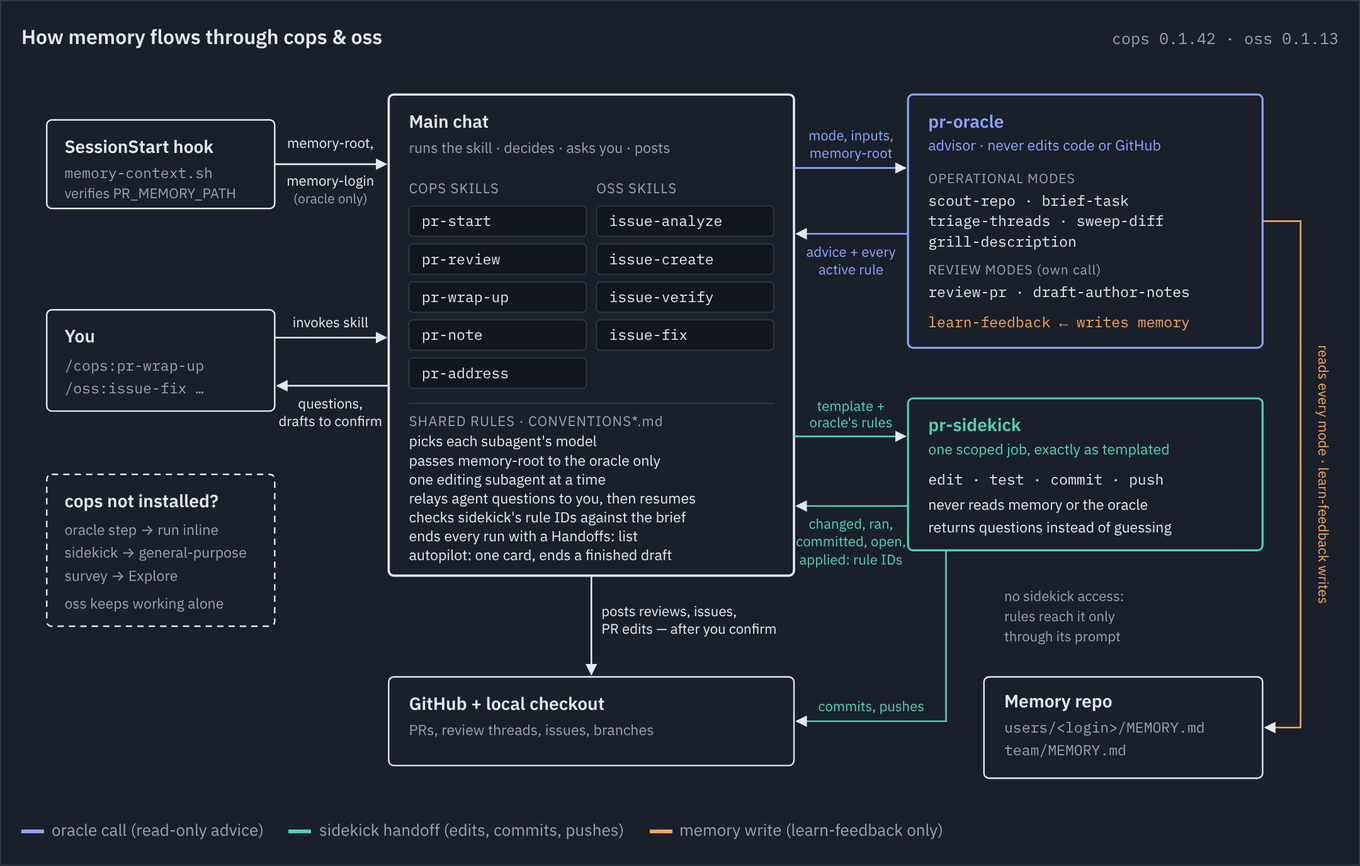
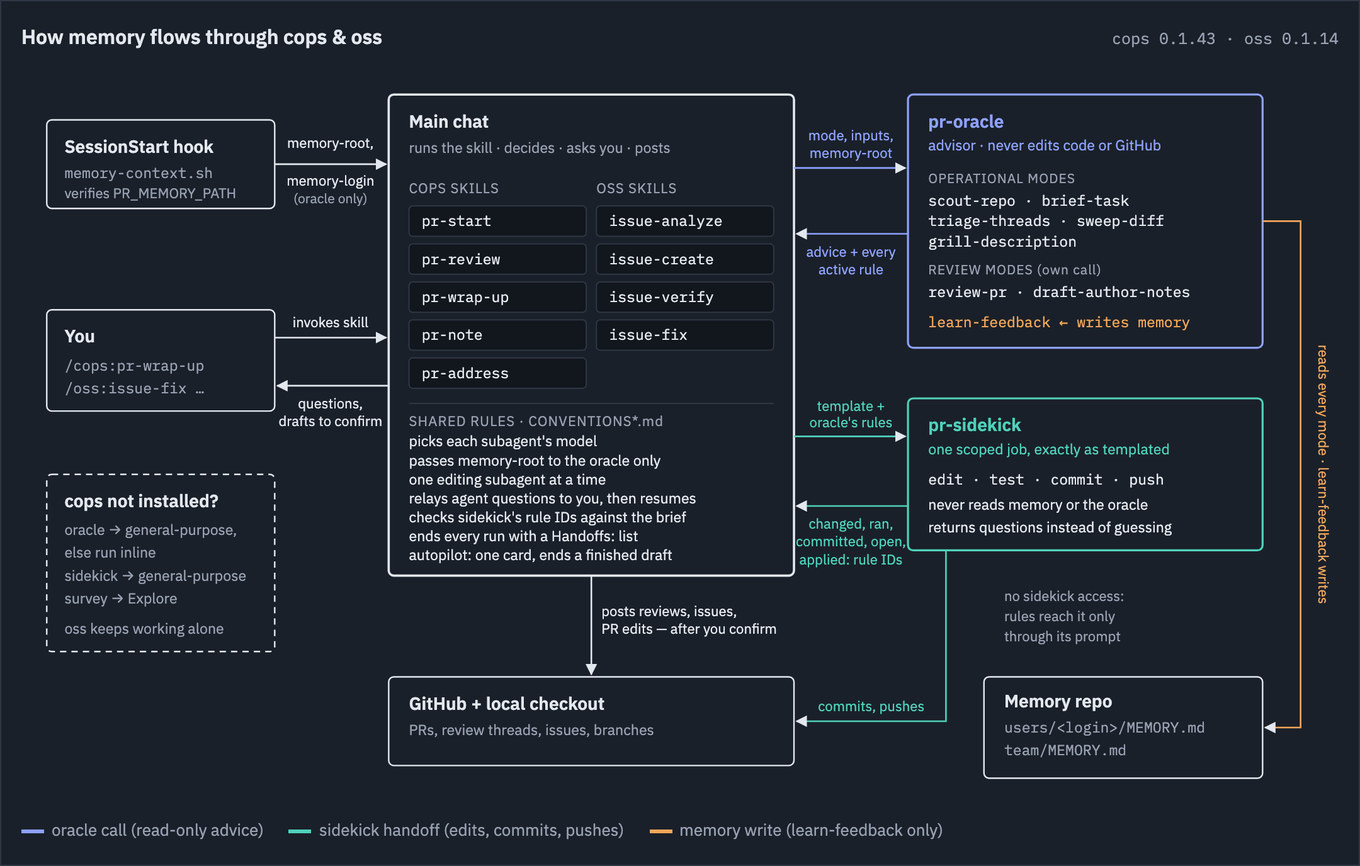
[cops] docs: add a subagent fallback convention for a missing pr-oracle or pr-sidekick (#138)
* [cops] docs: add CONVENTIONS-fallback for running a general-purpose subagent when pr-oracle or pr-sidekick is missing

Define when the fallback applies, the sidekick and oracle contract preambles,
memory handling, tiering, and how the fallback is reported. Index it in
CONVENTIONS.md, point to it from CONVENTIONS-orchestration.md, add a word
budget, and sync the plugin copies.

* [cops] docs: rename CONVENTIONS-fallback to CONVENTIONS-subagent-fallback

The new name says the file covers the missing-subagent fallback; references, budget line and synced copies follow.

Skill: cops:pr-start
Approved-by: eddeee888

* [cops] docs: carry pr-sidekick's decision limits into the fallback preamble

Raise the CONVENTIONS-subagent-fallback.md word cap in validate.sh from 700 to 724 for the added line.

Skill: cops:pr-address
Approved-by: eddeee888

* [cops] docs: mark a missing pr-oracle inline unless the step is a review mode

Reconcile the Companion and oracle sections of CONVENTIONS-orchestration.md with the general-purpose pointer. Raise the word caps in validate.sh: orchestration 1464 to 1481, subagent-fallback 724 to 736.

Skill: cops:pr-address
Approved-by: eddeee888

* [cops] docs: allow the general-purpose-in-place-of-pr-sidekick handoff mark

Raise the CONVENTIONS-orchestration.md word cap in validate.sh from 1481 to 1495.

Skill: cops:pr-address
Approved-by: eddeee888

* [cops][oss] chore: bump plugin versions and re-render the memory flow diagram
[…]

diff --git a/docs/memory-flow.html b/docs/memory-flow.html
@@ -41,7 +41,7 @@ svg .w { color: var(--write); } svg .w text { fill: var(--write); }
 <figure>
   <header>
     <strong>How memory flows through cops &amp; oss</strong>
-    <span id="versions">cops 0.1.42 · oss 0.1.13</span>
+    <span id="versions">cops 0.1.43 · oss 0.1.14</span>
   </header>
   <svg viewBox="0 0 1040 580" role="img" aria-label="The main chat runs a cops or oss skill. It calls pr-oracle for read-only advice and pr-sidekick for edit, test, commit and push loops. A SessionStart hook injects the memory root. Only the oracle receives the memory root and reads the memory repo, and only its learn-feedback mode writes it. The oracle's brief lists every active rule and the sidekick gets them only through its prompt; main chat checks the sidekick accounted for each rule ID.">
     <defs>
@@ -61,12 +61,13 @@ svg .w { color: var(--write); } svg .w text { fill: var(--write); }
     <text class="mono m" x="34" y="238">/cops:pr-wrap-up</text>
     <text class="mono m" x="34" y="256">/oss:issue-fix …</text>
 
-    <rect class="box dash" x="20" y="320" width="180" height="120" rx="4"/>
+    <rect class="box dash" x="20" y="320" width="180" height="140" rx="4"/>
     <text class="t" x="34" y="346">cops not installed?</text>
-    <text class="m" x="34" y="368" style="font-size:11.5px">oracle step → run inline</text>
-    <text class="m" x="34" y="386" style="font-size:11.5px">sidekick → general-purpose</text>
-    <text class="m" x="34" y="404" style="font-size:11.5px">survey → Explore</text>
-    <text class="m" x="34" y="426" style="font-size:11.5px">oss keeps working alone</text>
+    <text class="m" x="34" y="368" style="font-size:11.5px">oracle → general-purpose,</text>
+    <text class="m" x="34" y="386" style="font-size:11.5px">else run inline</text>
+    <text class="m" x="34" y="404" style="font-size:11.5px">sidekick → general-purpose</text>
+    <text class="m" x="34" y="422" style="font-size:11.5px">survey → Explore</text>
+    <text class="m" x="34" y="446" style="font-size:11.5px">oss keeps working alone</text>
 
     <!-- hook -> main -->
     <line class="edge" x1="200" y1="75" x2="288" y2="75" marker-end="url(#ah)"/>

diff --git a/CONVENTIONS-orchestration.md b/CONVENTIONS-orchestration.md
@@ -4,7 +4,7 @@
 
 When a skill names a handoff and the host can spawn a subagent, make it every time. This includes implement/test/commit, write/run-test, survey, research, and rebase/draft loops. Size or already-read code is no exemption. If handoff seems overhead, ask; never silently skip.
 
-- **Which agent.** Editing, running, or pushing → `pr-sidekick` (`cops:pr-sidekick`; Cursor: `pr-sidekick`), passing `login: <github-login>` when known. Complete PR review or author-note drafting → `pr-oracle` under "Consulting the `pr-oracle` agent". If `cops` is absent → `general-purpose` (Cursor: a subagent). Other read-only survey/research → `Explore` (Cursor: a subagent).
+- **Which agent.** Editing, running, or pushing → `pr-sidekick` (`cops:pr-sidekick`; Cursor: `pr-sidekick`), passing `login: <github-login>` when known. Complete PR review or author-note drafting → `pr-oracle` under "Consulting the `pr-oracle` agent". If unavailable → `general-purpose` (Cursor: a subagent), per `CONVENTIONS-subagent-fallback.md`. Other read-only survey/research → `Explore` (Cursor: a subagent).
 - **The caller picks the model by tier.** Every subagent call has one: `light` for mechanical work (also say "mechanical"), `standard` for a scoped change/survey, `deep` for cross-file judgment; oracle modes are tiered below. Pass the tier's value from the `COPS models:` line as the model. Omit it only for `inherit`, no such line, or a host without per-call models (Cursor). Mostly-design work stays in main chat.
 - **The prompt is only the filled template**: no transcript, diff, skill copy, or unrequested material.
 - **An editing subagent can't consult the oracle or read memory.** Main chat calls `pr-oracle` first and includes output, with `for: pr-sidekick` on `brief-task`.
@@ -30,6 +30,7 @@ Handoffs:
 
 - `✓`: ran as specified.
 - `✓ (incomplete load: <files>)`: oracle ran but its `loaded:` still lacked required files after one retry.
+- `✓ (general-purpose in place of pr-sidekick)`: `general-purpose` ran the sidekick handoff per `CONVENTIONS-subagent-fallback.md`.
 - `fallback (pr-oracle unavailable; general read-only subagent)`: valid only for labels `review-pr` and `draft-author-notes`, after applying the oracle mode contract to that subagent.
 - `inline (no subagent capability)`: valid for a named subagent handoff only when no subagent tool exists.
 - `inline (cops plugin isn't installed)`: valid for an oracle handoff only when `cops` is absent.
@@ -44,7 +45,7 @@ Final-report users: every `cops` and `oss` skill.
 `oss` works alone; when installed, `cops` supplies `pr-oracle`, `pr-sidekick`, and `pr-wrap-up`.
 
 - **How to tell.** Installed when this session has `cops:pr-oracle`, `cops:pr-sidekick`, `/cops:pr-wrap-up` on Claude Code; or `pr-oracle`, `pr-sidekick`, `/pr-wrap-up` on Cursor. Check once and cache. Cursor is never missing.
-- **Missing → fall back, never stop or ask for installation.** `pr-oracle` → perform its specified step inline and mark `inline (cops plugin isn't installed)`; `pr-sidekick` → fallback above; `pr-wrap-up` → say title and description need manual updating, without naming `/cops:pr-wrap-up`.
+- **Missing → fall back, never stop or ask for installation.** `pr-oracle` → `general-purpose` per `CONVENTIONS-subagent-fallback.md` when the mode's reference files are readable, else perform its specified step inline and mark `inline (cops plugin isn't installed)`; `pr-sidekick` → fallback above; `pr-wrap-up` → say title and description need manual updating, without naming `/cops:pr-wrap-up`.
 - **Defaults without the oracle.** With no profile/`overrides:`, inspect repo `CLAUDE.md` and `CONTRIBUTING.md` before applying a *Default*.
 
 ## Suggesting next steps
@@ -77,7 +78,7 @@ Skills call it at their named points in modes `scout-repo`, `triage-threads`, `b
   | `light` | sorting, extracting, formatting | `brief-task` |
   | `standard` | reading, summarising, drafting | `scout-repo`, `triage-threads`, `sweep-diff`, `grill-description`, `learn-feedback` |
   | `deep` | finding bugs, judging trade-offs | `review-pr`, `draft-author-notes` |
-- **Optional only when missing.** If `cops` is absent, perform the step inline and mark fallback. Small changes do not exempt calls. When present, call every named point; nothing inline replaces `sweep-diff` or `brief-task` as checks of remembered rules.
+- **Optional only when missing.** If `cops` is absent, fall back per "Companion plugin: `cops`", marking the handoff as "Handoffs in the final report" says. Small changes do not exempt calls. When present, call every named point; nothing inline replaces `sweep-diff` or `brief-task` as checks of remembered rules.
 - **Advice, not authority.** Current ask and skill rules win, except remembered rules override *Defaults*. Surface memory/current-ask conflicts to the user.
 - **The skill acts, the agent doesn't.** Caller pushes, replies, and edits. Report `promote:` once (repo-only rule belongs in `CLAUDE.md`). Show both rules for `conflict:` from an unrecorded contradictory `record-team:`.
 - **Pass what you have.** Include `login: <github-login>` if known; always include the selected `GitHub route:`. Later `scout-repo` calls get the run's first profile as `profile:`; `overrides:` is rebuilt from current memory. Review modes get owner/repo, PR number/URL, saved full head SHA, checkout status/path, and mode-specific inputs.

diff --git a/cops/CONVENTIONS-orchestration.md b/cops/CONVENTIONS-orchestration.md
@@ -4,7 +4,7 @@
 
 When a skill names a handoff and the host can spawn a subagent, make it every time. This includes implement/test/commit, write/run-test, survey, research, and rebase/draft loops. Size or already-read code is no exemption. If handoff seems overhead, ask; never silently skip.
 
-- **Which agent.** Editing, running, or pushing → `pr-sidekick` (`cops:pr-sidekick`; Cursor: `pr-sidekick`), passing `login: <github-login>` when known. Complete PR review or author-note drafting → `pr-oracle` under "Consulting the `pr-oracle` agent". If `cops` is absent → `general-purpose` (Cursor: a subagent). Other read-only survey/research → `Explore` (Cursor: a subagent).
+- **Which agent.** Editing, running, or pushing → `pr-sidekick` (`cops:pr-sidekick`; Cursor: `pr-sidekick`), passing `login: <github-login>` when known. Complete PR review or author-note drafting → `pr-oracle` under "Consulting the `pr-oracle` agent". If unavailable → `general-purpose` (Cursor: a subagent), per `CONVENTIONS-subagent-fallback.md`. Other read-only survey/research → `Explore` (Cursor: a subagent).
 - **The caller picks the model by tier.** Every subagent call has one: `light` for mechanical work (also say "mechanical"), `standard` for a scoped change/survey, `deep` for cross-file judgment; oracle modes are tiered below. Pass the tier's value from the `COPS models:` line as the model. Omit it only for `inherit`, no such line, or a host without per-call models (Cursor). Mostly-design work stays in main chat.
 - **The prompt is only the filled template**: no transcript, diff, skill copy, or unrequested material.
 - **An editing subagent can't consult the oracle or read memory.** Main chat calls `pr-oracle` first and includes output, with `for: pr-sidekick` on `brief-task`.
@@ -30,6 +30,7 @@ Handoffs:
 
 - `✓`: ran as specified.
 - `✓ (incomplete load: <files>)`: oracle ran but its `loaded:` still lacked required files after one retry.
+- `✓ (general-purpose in place of pr-sidekick)`: `general-purpose` ran the sidekick handoff per `CONVENTIONS-subagent-fallback.md`.
 - `fallback (pr-oracle unavailable; general read-only subagent)`: valid only for labels `review-pr` and `draft-author-notes`, after applying the oracle mode contract to that subagent.
 - `inline (no subagent capability)`: valid for a named subagent handoff only when no subagent tool exists.
 - `inline (cops plugin isn't installed)`: valid for an oracle handoff only when `cops` is absent.
@@ -44,7 +45,7 @@ Final-report users: every `cops` and `oss` skill.
 `oss` works alone; when installed, `cops` supplies `pr-oracle`, `pr-sidekick`, and `pr-wrap-up`.
 
 - **How to tell.** Installed when this session has `cops:pr-oracle`, `cops:pr-sidekick`, `/cops:pr-wrap-up` on Claude Code; or `pr-oracle`, `pr-sidekick`, `/pr-wrap-up` on Cursor. Check once and cache. Cursor is never missing.
-- **Missing → fall back, never stop or ask for installation.** `pr-oracle` → perform its specified step inline and mark `inline (cops plugin isn't installed)`; `pr-sidekick` → fallback above; `pr-wrap-up` → say title and description need manual updating, without naming `/cops:pr-wrap-up`.
+- **Missing → fall back, never stop or ask for installation.** `pr-oracle` → `general-purpose` per `CONVENTIONS-subagent-fallback.md` when the mode's reference files are readable, else perform its specified step inline and mark `inline (cops plugin isn't installed)`; `pr-sidekick` → fallback above; `pr-wrap-up` → say title and description need manual updating, without naming `/cops:pr-wrap-up`.
 - **Defaults without the oracle.** With no profile/`overrides:`, inspect repo `CLAUDE.md` and `CONTRIBUTING.md` before applying a *Default*.
 
 ## Suggesting next steps
@@ -77,7 +78,7 @@ Skills call it at their named points in modes `scout-repo`, `triage-threads`, `b
   | `light` | sorting, extracting, formatting | `brief-task` |
   | `standard` | reading, summarising, drafting | `scout-repo`, `triage-threads`, `sweep-diff`, `grill-description`, `learn-feedback` |
   | `deep` | finding bugs, judging trade-offs | `review-pr`, `draft-author-notes` |
-- **Optional only when missing.** If `cops` is absent, perform the step inline and mark fallback. Small changes do not exempt calls. When present, call every named point; nothing inline replaces `sweep-diff` or `brief-task` as checks of remembered rules.
+- **Optional only when missing.** If `cops` is absent, fall back per "Companion plugin: `cops`", marking the handoff as "Handoffs in the final report" says. Small changes do not exempt calls. When present, call every named point; nothing inline replaces `sweep-diff` or `brief-task` as checks of remembered rules.
 - **Advice, not authority.** Current ask and skill rules win, except remembered rules override *Defaults*. Surface memory/current-ask conflicts to the user.
 - **The skill acts, the agent doesn't.** Caller pushes, replies, and edits. Report `promote:` once (repo-only rule belongs in `CLAUDE.md`). Show both rules for `conflict:` from an unrecorded contradictory `record-team:`.
 - **Pass what you have.** Include `login: <github-login>` if known; always include the selected `GitHub route:`. Later `scout-repo` calls get the run's first profile as `profile:`; `overrides:` is rebuilt from current memory. Review modes get owner/repo, PR number/URL, saved full head SHA, checkout status/path, and mode-specific inputs.

diff --git a/oss/CONVENTIONS-orchestration.md b/oss/CONVENTIONS-orchestration.md
@@ -4,7 +4,7 @@
 
 When a skill names a handoff and the host can spawn a subagent, make it every time. This includes implement/test/commit, write/run-test, survey, research, and rebase/draft loops. Size or already-read code is no exemption. If handoff seems overhead, ask; never silently skip.
 
-- **Which agent.** Editing, running, or pushing → `pr-sidekick` (`cops:pr-sidekick`; Cursor: `pr-sidekick`), passing `login: <github-login>` when known. Complete PR review or author-note drafting → `pr-oracle` under "Consulting the `pr-oracle` agent". If `cops` is absent → `general-purpose` (Cursor: a subagent). Other read-only survey/research → `Explore` (Cursor: a subagent).
+- **Which agent.** Editing, running, or pushing → `pr-sidekick` (`cops:pr-sidekick`; Cursor: `pr-sidekick`), passing `login: <github-login>` when known. Complete PR review or author-note drafting → `pr-oracle` under "Consulting the `pr-oracle` agent". If unavailable → `general-purpose` (Cursor: a subagent), per `CONVENTIONS-subagent-fallback.md`. Other read-only survey/research → `Explore` (Cursor: a subagent).
 - **The caller picks the model by tier.** Every subagent call has one: `light` for mechanical work (also say "mechanical"), `standard` for a scoped change/survey, `deep` for cross-file judgment; oracle modes are tiered below. Pass the tier's value from the `COPS models:` line as the model. Omit it only for `inherit`, no such line, or a host without per-call models (Cursor). Mostly-design work stays in main chat.
 - **The prompt is only the filled template**: no transcript, diff, skill copy, or unrequested material.
 - **An editing subagent can't consult the oracle or read memory.** Main chat calls `pr-oracle` first and includes output, with `for: pr-sidekick` on `brief-task`.
@@ -30,6 +30,7 @@ Handoffs:
 
 - `✓`: ran as specified.
 - `✓ (incomplete load: <files>)`: oracle ran but its `loaded:` still lacked required files after one retry.
+- `✓ (general-purpose in place of pr-sidekick)`: `general-purpose` ran the sidekick handoff per `CONVENTIONS-subagent-fallback.md`.
 - `fallback (pr-oracle unavailable; general read-only subagent)`: valid only for labels `review-pr` and `draft-author-notes`, after applying the oracle mode contract to that subagent.
 - `inline (no subagent capability)`: valid for a named subagent handoff only when no subagent tool exists.
 - `inline (cops plugin isn't installed)`: valid for an oracle handoff only when `cops` is absent.
@@ -44,7 +45,7 @@ Final-report users: every `cops` and `oss` skill.
 `oss` works alone; when installed, `cops` supplies `pr-oracle`, `pr-sidekick`, and `pr-wrap-up`.
 
 - **How to tell.** Installed when this session has `cops:pr-oracle`, `cops:pr-sidekick`, `/cops:pr-wrap-up` on Claude Code; or `pr-oracle`, `pr-sidekick`, `/pr-wrap-up` on Cursor. Check once and cache. Cursor is never missing.
-- **Missing → fall back, never stop or ask for installation.** `pr-oracle` → perform its specified step inline and mark `inline (cops plugin isn't installed)`; `pr-sidekick` → fallback above; `pr-wrap-up` → say title and description need manual updating, without naming `/cops:pr-wrap-up`.
+- **Missing → fall back, never stop or ask for installation.** `pr-oracle` → `general-purpose` per `CONVENTIONS-subagent-fallback.md` when the mode's reference files are readable, else perform its specified step inline and mark `inline (cops plugin isn't installed)`; `pr-sidekick` → fallback above; `pr-wrap-up` → say title and description need manual updating, without naming `/cops:pr-wrap-up`.
 - **Defaults without the oracle.** With no profile/`overrides:`, inspect repo `CLAUDE.md` and `CONTRIBUTING.md` before applying a *Default*.
 
 ## Suggesting next steps
@@ -77,7 +78,7 @@ Skills call it at their named points in modes `scout-repo`, `triage-threads`, `b
   | `light` | sorting, extracting, formatting | `brief-task` |
   | `standard` | reading, summarising, drafting | `scout-repo`, `triage-threads`, `sweep-diff`, `grill-description`, `learn-feedback` |
   | `deep` | finding bugs, judging trade-offs | `review-pr`, `draft-author-notes` |
-- **Optional only when missing.** If `cops` is absent, perform the step inline and mark fallback. Small changes do not exempt calls. When present, call every named point; nothing inline replaces `sweep-diff` or `brief-task` as checks of remembered rules.
+- **Optional only when missing.** If `cops` is absent, fall back per "Companion plugin: `cops`", marking the handoff as "Handoffs in the final report" says. Small changes do not exempt calls. When present, call every named point; nothing inline replaces `sweep-diff` or `brief-task` as checks of remembered rules.
 - **Advice, not authority.** Current ask and skill rules win, except remembered rules override *Defaults*. Surface memory/current-ask conflicts to the user.
 - **The skill acts, the agent doesn't.** Caller pushes, replies, and edits. Report `promote:` once (repo-only rule belongs in `CLAUDE.md`). Show both rules for `conflict:` from an unrecorded contradictory `record-team:`.
 - **Pass what you have.** Include `login: <github-login>` if known; always include the selected `GitHub route:`. Later `scout-repo` calls get the run's first profile as `profile:`; `overrides:` is rebuilt from current memory. Review modes get owner/repo, PR number/URL, saved full head SHA, checkout status/path, and mode-specific inputs.

diff --git a/CONVENTIONS-subagent-fallback.md b/CONVENTIONS-subagent-fallback.md
@@ -1,0 +1,58 @@
+# Fallback to a general-purpose subagent
+
+How a skill proceeds when `pr-oracle` or `pr-sidekick` cannot be spawned by name. The skill still hands the work to a subagent: a `general-purpose` one carrying the named agent's contract. Inline is the last resort, not the default.
+
+This extends `CONVENTIONS-orchestration.md` → "Hand long loops to a subagent". It adds no new decisions to a skill: ordering, gates, retry bounds, and who commits or pushes stay as the skill says.
+
+## When it applies
+
+Use it when the host has a subagent tool but the named agent is unavailable. Typical causes:
+
+- The skill runs without `cops` (an `oss` skill, or the skills copied on their own), so `cops:pr-oracle` and `cops:pr-sidekick` do not exist.
+- The host (for example a cloud agent) does not load `cops/agents/`.
+- The named agent fails to start and nothing has run yet.
+
+It does not apply:
+
+- **No subagent tool.** Run the step inline and mark `inline (no subagent capability)`.
+- **Failure after work began** (edits, commits, a push, a posted comment). Never respawn as a fallback; the skill's own failure handling applies (bounded retries, `Resuming:`, or ask the user).
+
+Never stop, or ask the user to install the plugin, because an agent is missing.
+
+## How to run it
+
+1. **Spawn `general-purpose`** with the model the named agent would have taken: the call's tier from `CONVENTIONS-orchestration.md` ("The caller picks the model by tier", and the oracle mode table), passed as that section says.
+2. **The prompt is the contract preamble below, then the skill's filled template.** Nothing else: no transcript, diff, or skill copy. The preamble stands in for the agent file, so it works even when that file is absent.
+3. **Read the result as the named agent's.** Same lines, same checks: a sidekick fallback returns `applied:` / `not applied:`, and main chat compares those IDs with its `Rules that apply:` line.
+
+### Sidekick preamble
+
+```
+Act as pr-sidekick for the one scoped job below. Do exactly what it says, in its order.
+- Never read or write memory and never consult pr-oracle. The only remembered rules are those in this prompt (`Rules that apply:` or the brief). Don't go looking for memory files.
+- Stay inside the ask: no drive-by refactors, renames, or formatting.
+- A mechanical job (the prompt says so, or a literal rename, move, or suggestion block) decides nothing. Anything beyond the ask (other files' behavior, a public API, security/auth, config/infra, dropping or rewriting a test) → stop and return the question.
+- Commit, push, reply, or post only where this prompt says so. Never amend, squash, force-push, skip hooks, resolve a thread, edit a PR title or body, or open a PR or issue.
+- GitHub only through `gh api` REST in Bash, never MCP or `gh pr` / `gh issue`.
+- At most 3 attempts at anything to keep going "until". Then stop, leave the work uncommitted, and report what was tried and what still fails.
+- You cannot ask the user. Return a question as your result; on `Resuming:` check what is already committed or pushed first.
+- Return only the requested lines, plus `applied: <rule IDs or none>; not applied: <ID> (<why>) or none`, and `deviations:` when you made a small decision.
+```
+
+### Oracle preamble
+
+Only when the mode's reference files (`cops/references/pr-oracle/`) are readable on the host. Otherwise there is nothing to carry, so perform the step inline. Mark it `inline (cops plugin isn't installed)`; mark `fallback` only for `review-pr` and `draft-author-notes`, as "Handoffs in the final report" says.
+
+```
+Act as pr-oracle for the mode(s) below. Read the mode file(s) under the references directory first, then follow their job and output exactly.
+- Never edit product repositories or GitHub. Only `learn-feedback` writes memory, and only under `memory/users/<memory-login>/` and `memory/team/` of the memory root. Never clone, pull, commit, or push memory.
+- Read GitHub only through read-only `gh api` REST calls, never MCP.
+- Never ask the user; flag decisions you cannot support.
+- End with the `loaded:` line and any `promote:`, `conflict:`, or memory suffixes.
+```
+
+Pass the oracle fallback `memory-root` and `memory-login` exactly as the SessionStart context gives them. Never pass either to a sidekick fallback.
+
+## Reporting
+
+Under "Handoffs in the final report", name the fallback on the step's line, for example `- fix loop ✓ (general-purpose in place of pr-sidekick)`. The PR panel already labels these rows `🤖 general-purpose`.

diff --git a/cops/CONVENTIONS-subagent-fallback.md b/cops/CONVENTIONS-subagent-fallback.md
@@ -1,0 +1,58 @@
+# Fallback to a general-purpose subagent
+
+How a skill proceeds when `pr-oracle` or `pr-sidekick` cannot be spawned by name. The skill still hands the work to a subagent: a `general-purpose` one carrying the named agent's contract. Inline is the last resort, not the default.
+
+This extends `CONVENTIONS-orchestration.md` → "Hand long loops to a subagent". It adds no new decisions to a skill: ordering, gates, retry bounds, and who commits or pushes stay as the skill says.
+
+## When it applies
+
+Use it when the host has a subagent tool but the named agent is unavailable. Typical causes:
+
+- The skill runs without `cops` (an `oss` skill, or the skills copied on their own), so `cops:pr-oracle` and `cops:pr-sidekick` do not exist.
+- The host (for example a cloud agent) does not load `cops/agents/`.
+- The named agent fails to start and nothing has run yet.
+
+It does not apply:
+
+- **No subagent tool.** Run the step inline and mark `inline (no subagent capability)`.
+- **Failure after work began** (edits, commits, a push, a posted comment). Never respawn as a fallback; the skill's own failure handling applies (bounded retries, `Resuming:`, or ask the user).
+
+Never stop, or ask the user to install the plugin, because an agent is missing.
+
+## How to run it
+
+1. **Spawn `general-purpose`** with the model the named agent would have taken: the call's tier from `CONVENTIONS-orchestration.md` ("The caller picks the model by tier", and the oracle mode table), passed as that section says.
+2. **The prompt is the contract preamble below, then the skill's filled template.** Nothing else: no transcript, diff, or skill copy. The preamble stands in for the agent file, so it works even when that file is absent.
+3. **Read the result as the named agent's.** Same lines, same checks: a sidekick fallback returns `applied:` / `not applied:`, and main chat compares those IDs with its `Rules that apply:` line.
+
+### Sidekick preamble
+
+```
+Act as pr-sidekick for the one scoped job below. Do exactly what it says, in its order.
+- Never read or write memory and never consult pr-oracle. The only remembered rules are those in this prompt (`Rules that apply:` or the brief). Don't go looking for memory files.
+- Stay inside the ask: no drive-by refactors, renames, or formatting.
+- A mechanical job (the prompt says so, or a literal rename, move, or suggestion block) decides nothing. Anything beyond the ask (other files' behavior, a public API, security/auth, config/infra, dropping or rewriting a test) → stop and return the question.
+- Commit, push, reply, or post only where this prompt says so. Never amend, squash, force-push, skip hooks, resolve a thread, edit a PR title or body, or open a PR or issue.
+- GitHub only through `gh api` REST in Bash, never MCP or `gh pr` / `gh issue`.
+- At most 3 attempts at anything to keep going "until". Then stop, leave the work uncommitted, and report what was tried and what still fails.
+- You cannot ask the user. Return a question as your result; on `Resuming:` check what is already committed or pushed first.
+- Return only the requested lines, plus `applied: <rule IDs or none>; not applied: <ID> (<why>) or none`, and `deviations:` when you made a small decision.
+```
+
+### Oracle preamble
+
+Only when the mode's reference files (`cops/references/pr-oracle/`) are readable on the host. Otherwise there is nothing to carry, so perform the step inline. Mark it `inline (cops plugin isn't installed)`; mark `fallback` only for `review-pr` and `draft-author-notes`, as "Handoffs in the final report" says.
+
+```
+Act as pr-oracle for the mode(s) below. Read the mode file(s) under the references directory first, then follow their job and output exactly.
+- Never edit product repositories or GitHub. Only `learn-feedback` writes memory, and only under `memory/users/<memory-login>/` and `memory/team/` of the memory root. Never clone, pull, commit, or push memory.
+- Read GitHub only through read-only `gh api` REST calls, never MCP.
+- Never ask the user; flag decisions you cannot support.
+- End with the `loaded:` line and any `promote:`, `conflict:`, or memory suffixes.
+```
+
+Pass the oracle fallback `memory-root` and `memory-login` exactly as the SessionStart context gives them. Never pass either to a sidekick fallback.
+
+## Reporting
+
+Under "Handoffs in the final report", name the fallback on the step's line, for example `- fix loop ✓ (general-purpose in place of pr-sidekick)`. The PR panel already labels these rows `🤖 general-purpose`.

diff --git a/oss/CONVENTIONS-subagent-fallback.md b/oss/CONVENTIONS-subagent-fallback.md
@@ -1,0 +1,58 @@
+# Fallback to a general-purpose subagent
+
+How a skill proceeds when `pr-oracle` or `pr-sidekick` cannot be spawned by name. The skill still hands the work to a subagent: a `general-purpose` one carrying the named agent's contract. Inline is the last resort, not the default.
+
+This extends `CONVENTIONS-orchestration.md` → "Hand long loops to a subagent". It adds no new decisions to a skill: ordering, gates, retry bounds, and who commits or pushes stay as the skill says.
+
+## When it applies
+
+Use it when the host has a subagent tool but the named agent is unavailable. Typical causes:
+
+- The skill runs without `cops` (an `oss` skill, or the skills copied on their own), so `cops:pr-oracle` and `cops:pr-sidekick` do not exist.
+- The host (for example a cloud agent) does not load `cops/agents/`.
+- The named agent fails to start and nothing has run yet.
+
+It does not apply:
+
+- **No subagent tool.** Run the step inline and mark `inline (no subagent capability)`.
+- **Failure after work began** (edits, commits, a push, a posted comment). Never respawn as a fallback; the skill's own failure handling applies (bounded retries, `Resuming:`, or ask the user).
+
+Never stop, or ask the user to install the plugin, because an agent is missing.
+
+## How to run it
+
+1. **Spawn `general-purpose`** with the model the named agent would have taken: the call's tier from `CONVENTIONS-orchestration.md` ("The caller picks the model by tier", and the oracle mode table), passed as that section says.
+2. **The prompt is the contract preamble below, then the skill's filled template.** Nothing else: no transcript, diff, or skill copy. The preamble stands in for the agent file, so it works even when that file is absent.
+3. **Read the result as the named agent's.** Same lines, same checks: a sidekick fallback returns `applied:` / `not applied:`, and main chat compares those IDs with its `Rules that apply:` line.
+
+### Sidekick preamble
+
+```
+Act as pr-sidekick for the one scoped job below. Do exactly what it says, in its order.
+- Never read or write memory and never consult pr-oracle. The only remembered rules are those in this prompt (`Rules that apply:` or the brief). Don't go looking for memory files.
+- Stay inside the ask: no drive-by refactors, renames, or formatting.
+- A mechanical job (the prompt says so, or a literal rename, move, or suggestion block) decides nothing. Anything beyond the ask (other files' behavior, a public API, security/auth, config/infra, dropping or rewriting a test) → stop and return the question.
+- Commit, push, reply, or post only where this prompt says so. Never amend, squash, force-push, skip hooks, resolve a thread, edit a PR title or body, or open a PR or issue.
+- GitHub only through `gh api` REST in Bash, never MCP or `gh pr` / `gh issue`.
+- At most 3 attempts at anything to keep going "until". Then stop, leave the work uncommitted, and report what was tried and what still fails.
+- You cannot ask the user. Return a question as your result; on `Resuming:` check what is already committed or pushed first.
+- Return only the requested lines, plus `applied: <rule IDs or none>; not applied: <ID> (<why>) or none`, and `deviations:` when you made a small decision.
+```
+
+### Oracle preamble
+
+Only when the mode's reference files (`cops/references/pr-oracle/`) are readable on the host. Otherwise there is nothing to carry, so perform the step inline. Mark it `inline (cops plugin isn't installed)`; mark `fallback` only for `review-pr` and `draft-author-notes`, as "Handoffs in the final report" says.
+
+```
+Act as pr-oracle for the mode(s) below. Read the mode file(s) under the references directory first, then follow their job and output exactly.
+- Never edit product repositories or GitHub. Only `learn-feedback` writes memory, and only under `memory/users/<memory-login>/` and `memory/team/` of the memory root. Never clone, pull, commit, or push memory.
+- Read GitHub only through read-only `gh api` REST calls, never MCP.
+- Never ask the user; flag decisions you cannot support.
+- End with the `loaded:` line and any `promote:`, `conflict:`, or memory suffixes.
+```
+
+Pass the oracle fallback `memory-root` and `memory-login` exactly as the SessionStart context gives them. Never pass either to a sidekick fallback.
+
+## Reporting
+
+Under "Handoffs in the final report", name the fallback on the step's line, for example `- fix loop ✓ (general-purpose in place of pr-sidekick)`. The PR panel already labels these rows `🤖 general-purpose`.

diff --git a/README.md b/README.md
@@ -165,7 +165,7 @@ Then run a skill, e.g. `/cops:pr-review <PR URL>`: its report ends with a `Hando
 
 - Catalogs: [`.claude-plugin/marketplace.json`](.claude-plugin/marketplace.json) (Claude Code), [`.cursor-plugin/marketplace.json`](.cursor-plugin/marketplace.json) (Cursor).
 - Each plugin: `.claude-plugin/plugin.json` and `.cursor-plugin/plugin.json` manifests; skills in `skills/<skill-name>/SKILL.md`.
-- [`CONVENTIONS.md`](CONVENTIONS.md) and its six indexed reference files hold rules shared by more than one skill (e.g. the `[package-name]` monorepo title prefix), so skills point to them instead of restating them. Rules marked *Default* can be overridden by a repo's `CLAUDE.md`, the oracle's memory, or the current conversation; the rest are contracts. An installed plugin only gets its own directory, so `oss/` and `cops/` each carry identical copies of all seven files — edit the root set, then run `bash scripts/sync-conventions.sh` to copy it over both.
+- [`CONVENTIONS.md`](CONVENTIONS.md) and its seven indexed reference files hold rules shared by more than one skill (e.g. the `[package-name]` monorepo title prefix), so skills point to them instead of restating them. Rules marked *Default* can be overridden by a repo's `CLAUDE.md`, the oracle's memory, or the current conversation; the rest are contracts. An installed plugin only gets its own directory, so `oss/` and `cops/` each carry identical copies of all eight files — edit the root set, then run `bash scripts/sync-conventions.sh` to copy it over both.
 
 ## Development
 

diff --git a/CONVENTIONS.md b/CONVENTIONS.md
@@ -4,7 +4,7 @@ Rules shared by marketplace skills and the `pr-oracle` checks that enforce them.
 
 ## Distribution and sync
 
-Each plugin carries an identical copy of this core file and its six reference files at its root, two levels above each `SKILL.md`. Edit the seven root files, then run `bash scripts/sync-conventions.sh` to copy all seven over `cops/` and `oss/`.
+Each plugin carries an identical copy of this core file and its seven reference files at its root, two levels above each `SKILL.md`. Edit the eight root files, then run `bash scripts/sync-conventions.sh` to copy all eight over `cops/` and `oss/`.
 
 ## Defaults and contracts
 
@@ -49,6 +49,8 @@ Each indexed section is:
   - Evidence status: `captured` … `not-captured`
   - Where evidence lives: scratch and the PR body
   - Staleness is not a `sweep-diff` check
+- `CONVENTIONS-subagent-fallback.md`
+  - Fallback to a general-purpose subagent
 - `CONVENTIONS-verification.md`
   - Verification checklist: name the test type, not the command
   - Don't checklist an intentionally-failing check as done

diff --git a/cops/CONVENTIONS.md b/cops/CONVENTIONS.md
@@ -4,7 +4,7 @@ Rules shared by marketplace skills and the `pr-oracle` checks that enforce them.
 
 ## Distribution and sync
 
-Each plugin carries an identical copy of this core file and its six reference files at its root, two levels above each `SKILL.md`. Edit the seven root files, then run `bash scripts/sync-conventions.sh` to copy all seven over `cops/` and `oss/`.
+Each plugin carries an identical copy of this core file and its seven reference files at its root, two levels above each `SKILL.md`. Edit the eight root files, then run `bash scripts/sync-conventions.sh` to copy all eight over `cops/` and `oss/`.
 
 ## Defaults and contracts
 
@@ -49,6 +49,8 @@ Each indexed section is:
   - Evidence status: `captured` … `not-captured`
   - Where evidence lives: scratch and the PR body
   - Staleness is not a `sweep-diff` check
+- `CONVENTIONS-subagent-fallback.md`
+  - Fallback to a general-purpose subagent
 - `CONVENTIONS-verification.md`
   - Verification checklist: name the test type, not the command
   - Don't checklist an intentionally-failing check as done

diff --git a/oss/CONVENTIONS.md b/oss/CONVENTIONS.md
@@ -4,7 +4,7 @@ Rules shared by marketplace skills and the `pr-oracle` checks that enforce them.
 
 ## Distribution and sync
 
-Each plugin carries an identical copy of this core file and its six reference files at its root, two levels above each `SKILL.md`. Edit the seven root files, then run `bash scripts/sync-conventions.sh` to copy all seven over `cops/` and `oss/`.
+Each plugin carries an identical copy of this core file and its seven reference files at its root, two levels above each `SKILL.md`. Edit the eight root files, then run `bash scripts/sync-conventions.sh` to copy all eight over `cops/` and `oss/`.
 
 ## Defaults and contracts
 
@@ -49,6 +49,8 @@ Each indexed section is:
   - Evidence status: `captured` … `not-captured`
   - Where evidence lives: scratch and the PR body
   - Staleness is not a `sweep-diff` check
+- `CONVENTIONS-subagent-fallback.md`
+  - Fallback to a general-purpose subagent
 - `CONVENTIONS-verification.md`
   - Verification checklist: name the test type, not the command
   - Don't checklist an intentionally-failing check as done
